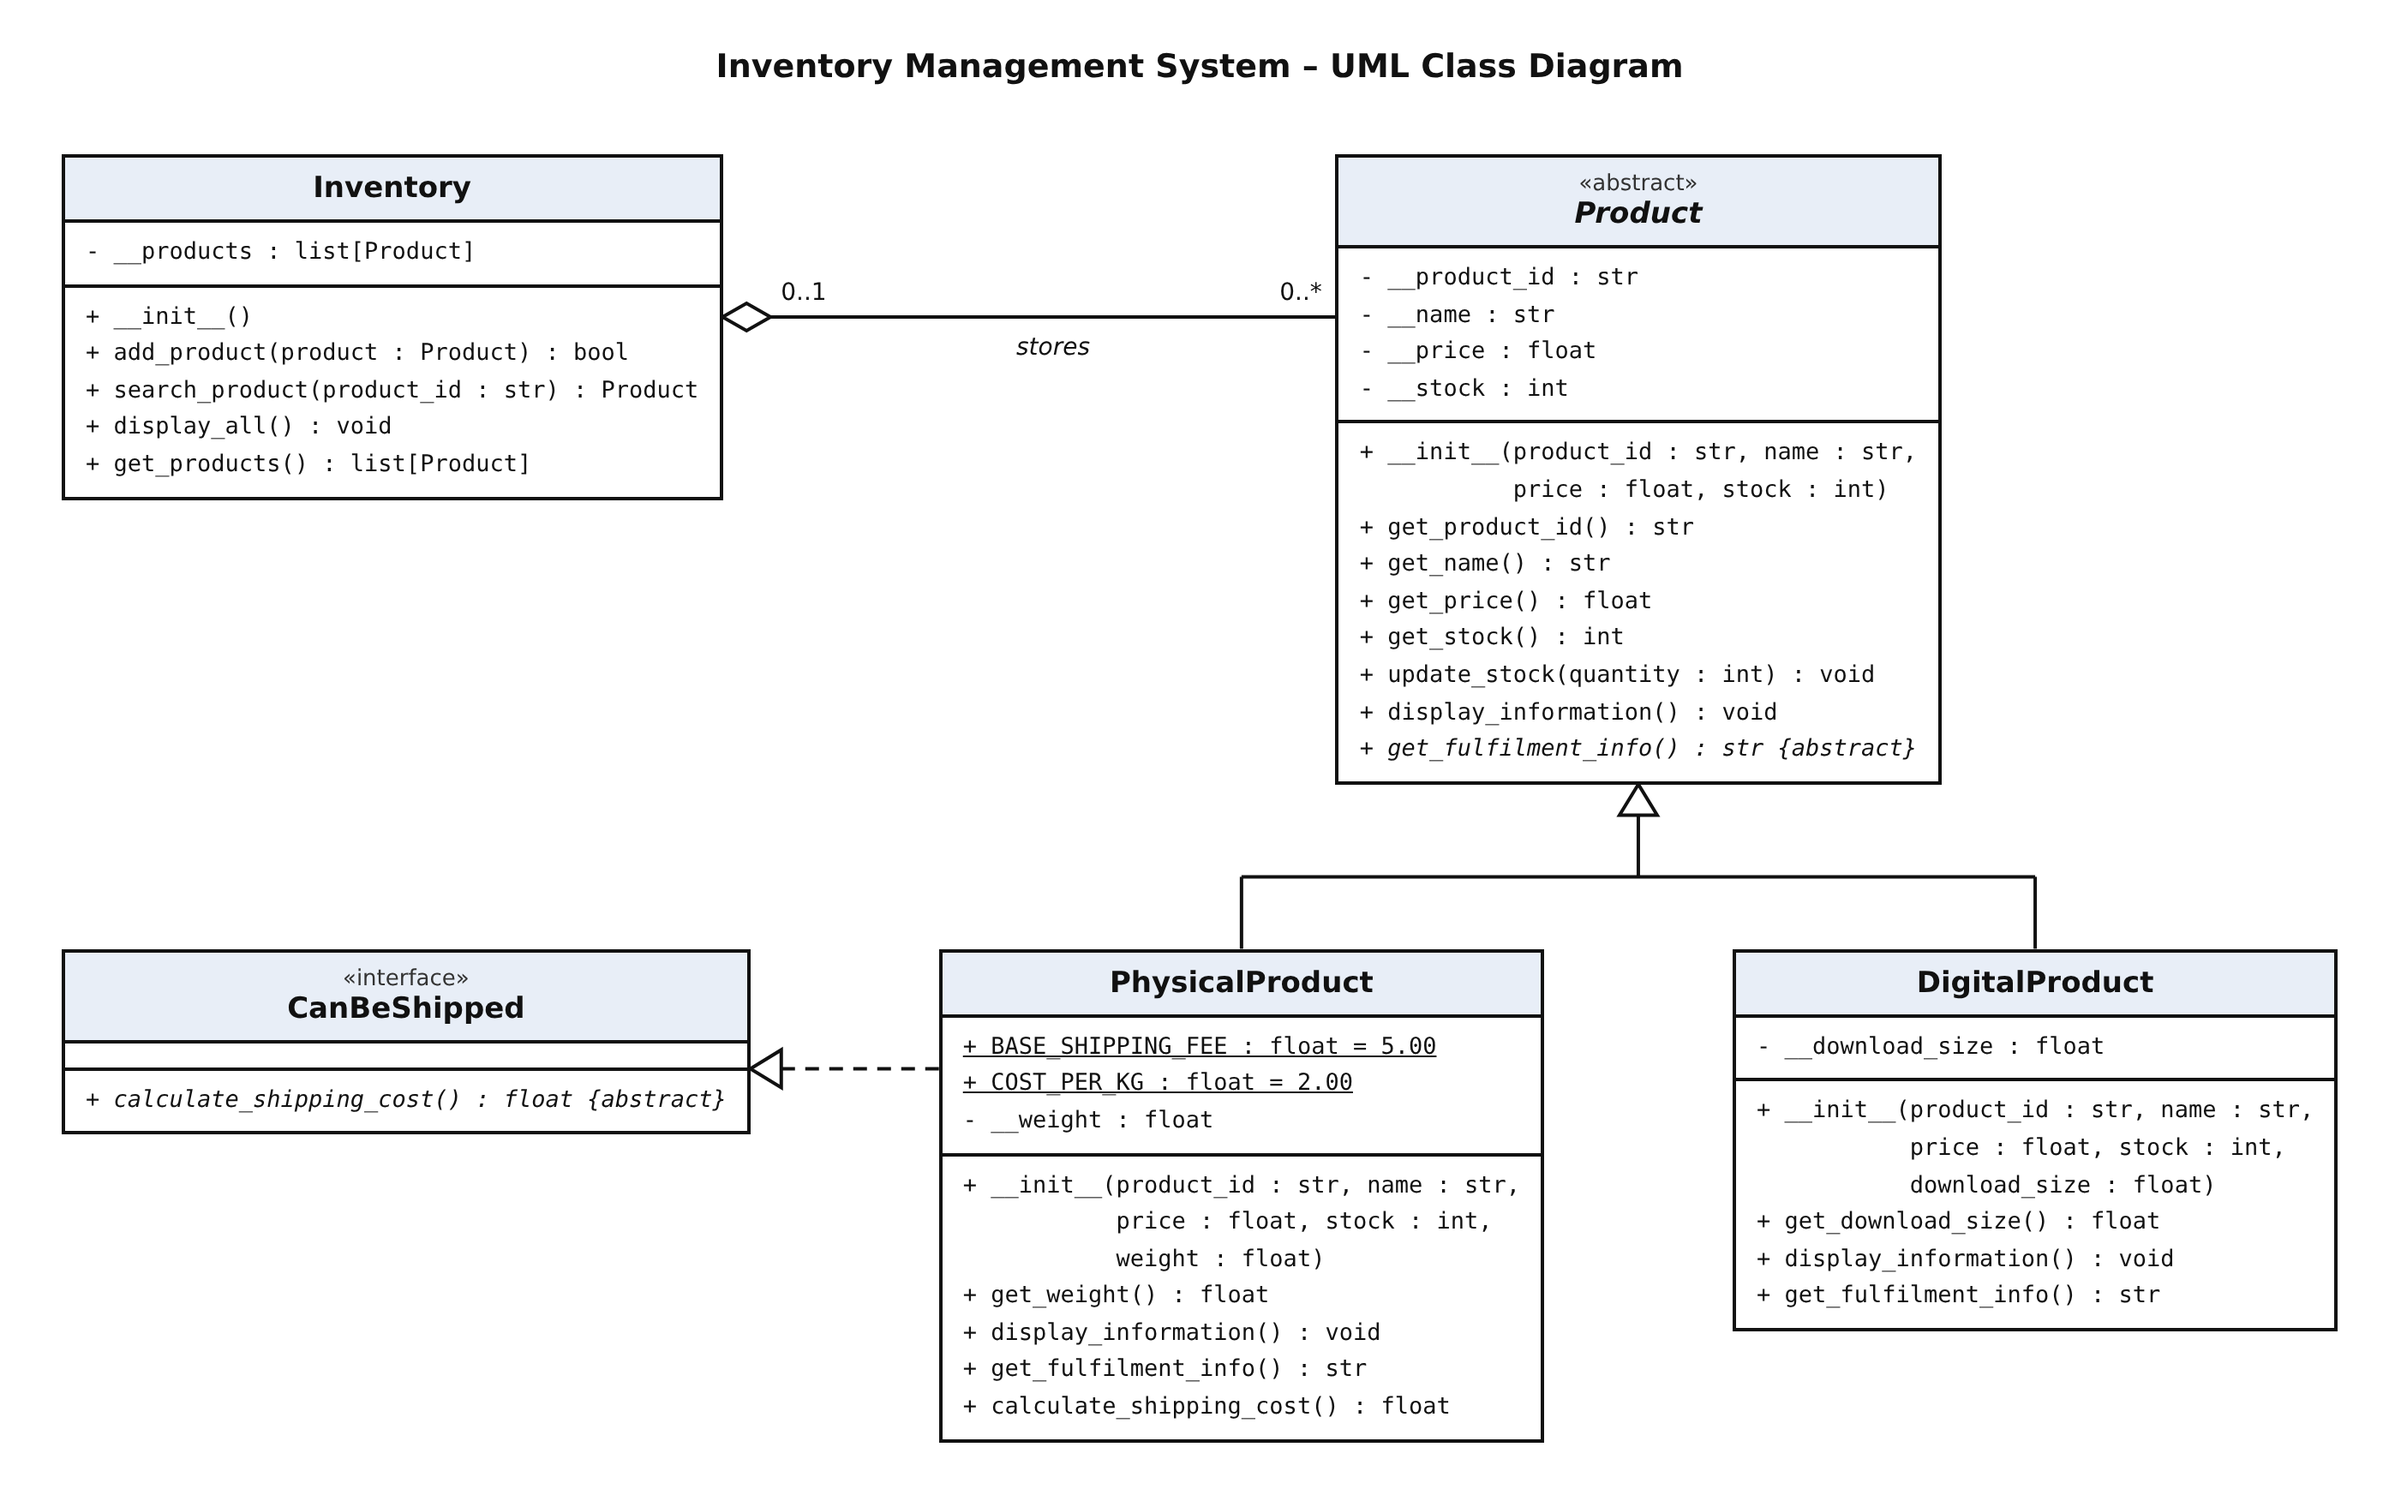
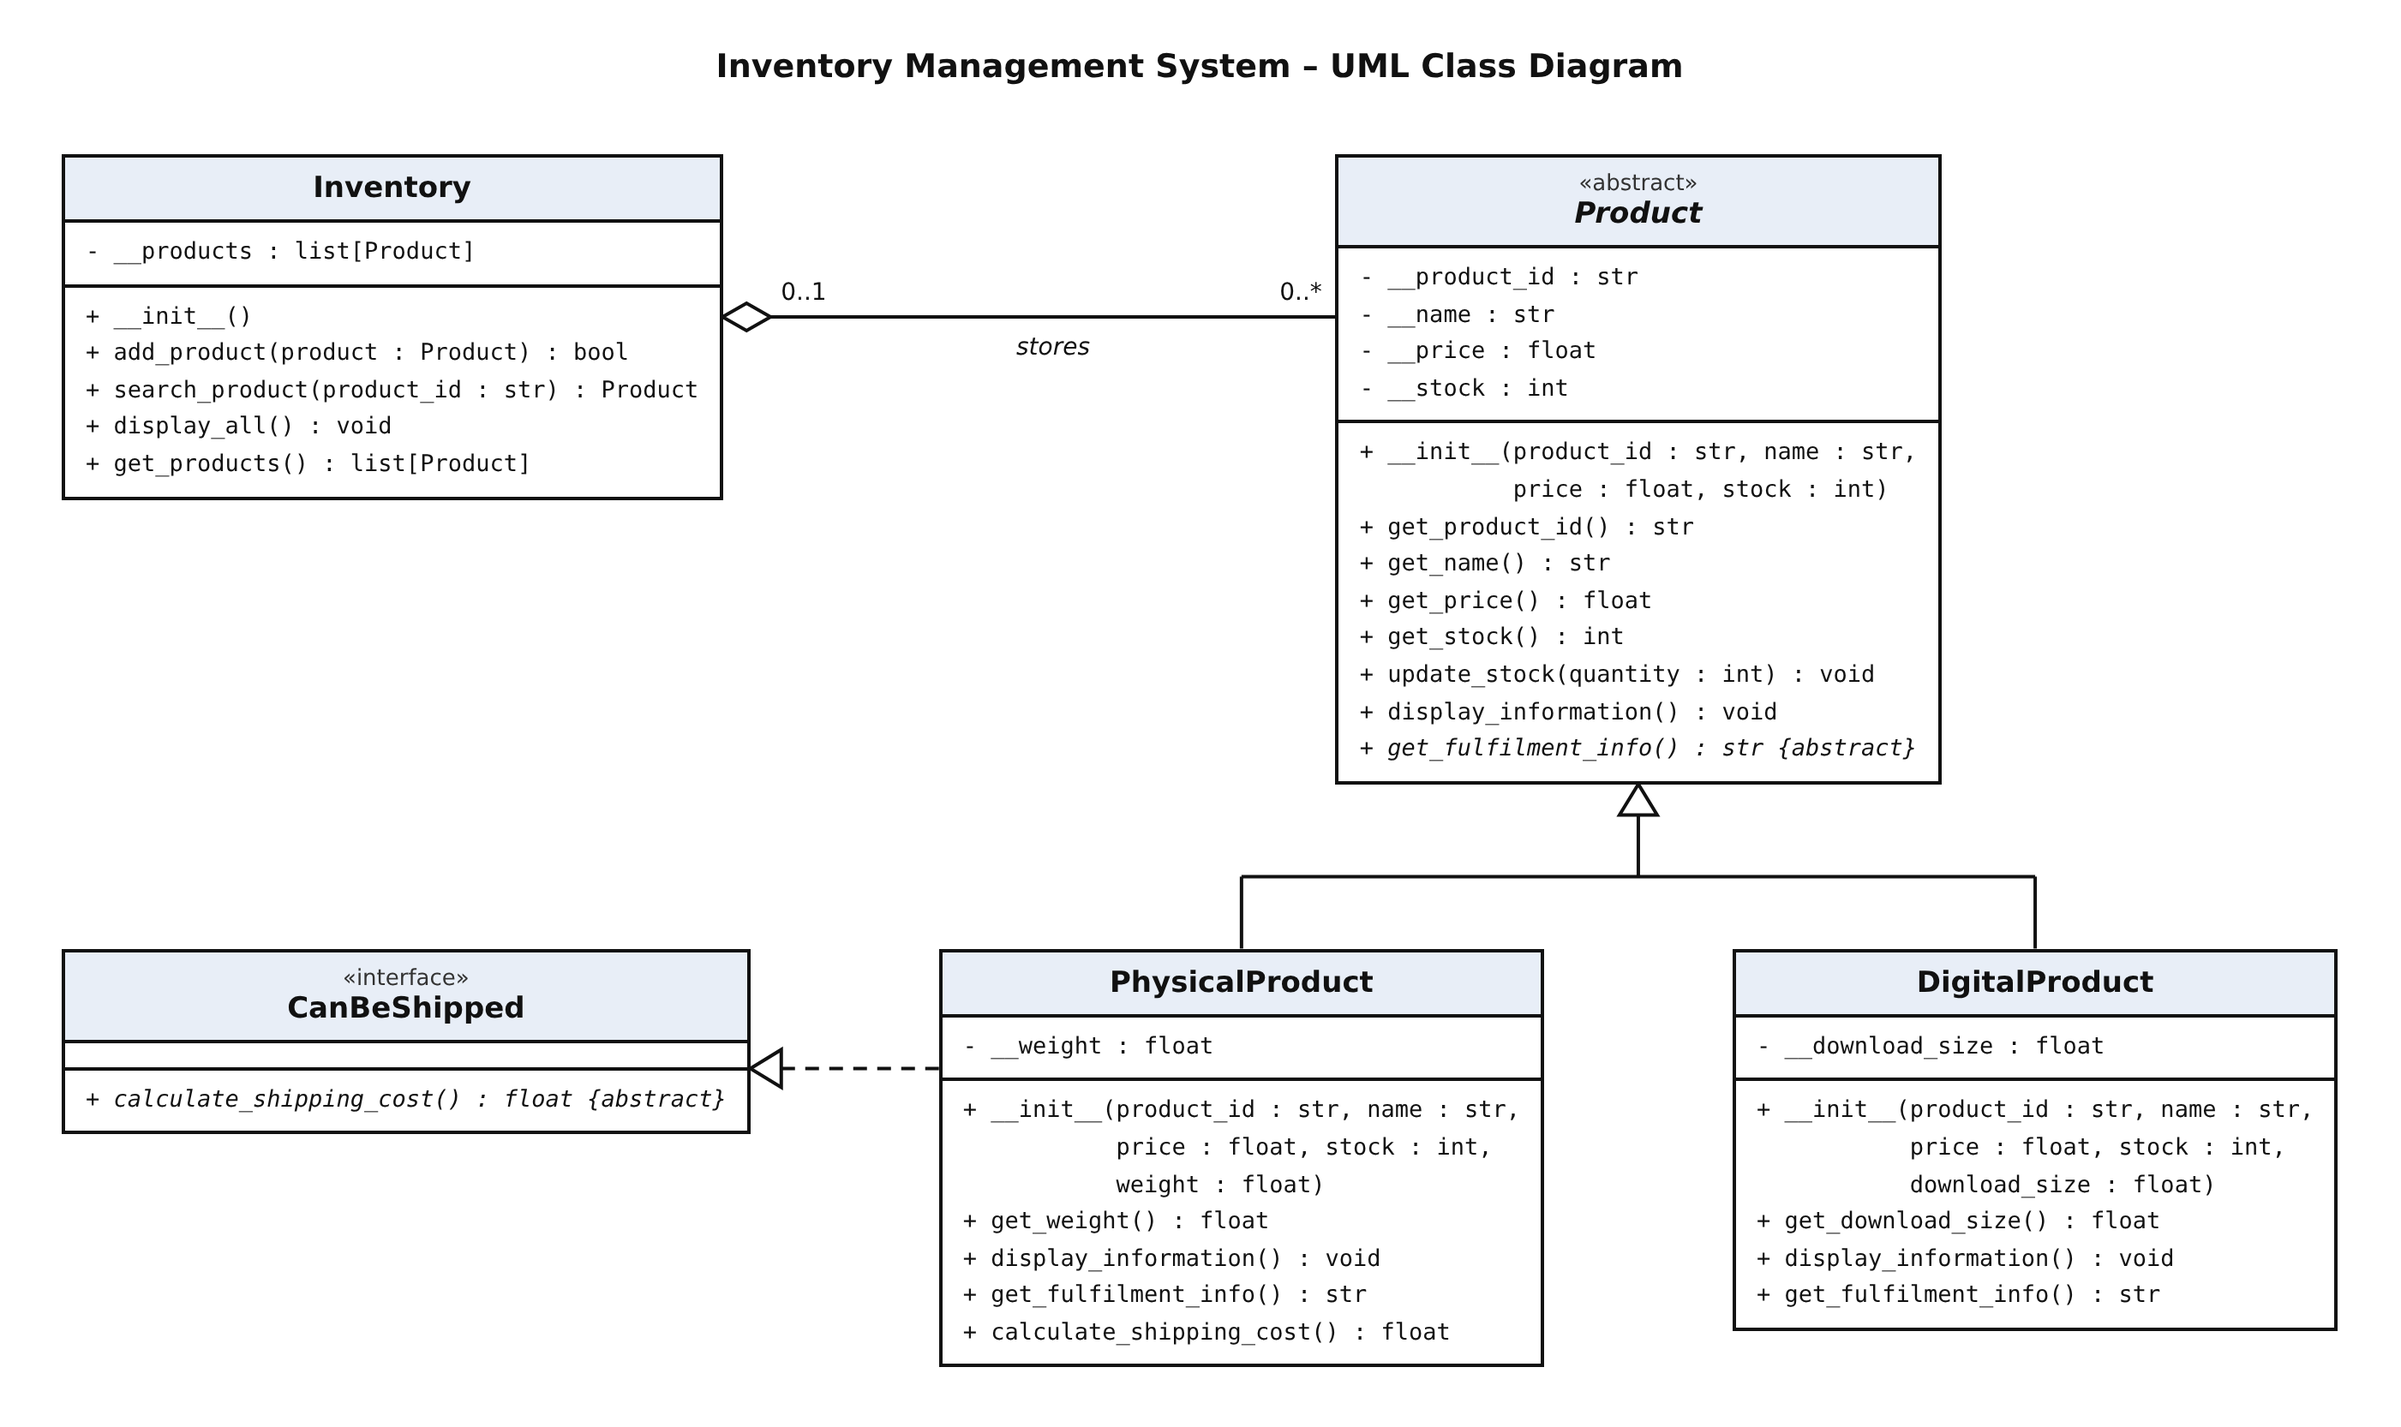
inheritance, abstract Product and CanBeShipped interface

diff --git a/inf1103-labs-new/inventory_manager.py b/inf1103-labs-new/inventory_manager.py
@@ -1,8 +1,6 @@
 # Github at https://github.com/DanielOng2603635/inf1103-labs
 # Main Program
 
-import math
-
 from physical_product import PhysicalProduct
 from digital_product import DigitalProduct
 from inventory import Inventory
@@ -22,18 +20,17 @@ def show_menu():
     print("----------------------------")
 
 
-def get_positive_number(prompt, field_name):
-    # Used for price, weight and download size
-    value = input(prompt).strip()
+def get_valid_price(prompt):
+    price = input(prompt).strip()
     try:
-        value = float(value)
+        price = float(price)
     except ValueError:
-        print("Please enter a valid number for " + field_name + ".")
+        print("Please enter a valid number for price.")
         return None
-    if not math.isfinite(value) or value <= 0:
-        print(field_name.capitalize() + " must be a positive number.")
+    if price <= 0:
+        print("Price must be a positive number.")
         return None
-    return value
+    return price
 
 
 def get_valid_stock(prompt):
@@ -51,13 +48,25 @@ def get_valid_stock(prompt):
     return stock
 
 
+def get_valid_number(prompt):
+    # For weight and download size
+    number = input(prompt).strip()
+    try:
+        number = float(number)
+    except ValueError:
+        print("Please enter a valid number.")
+        return None
+    if number <= 0:
+        print("Number must be more than 0.")
+        return None
+    return number
+
+
 def handle_add(inventory):
     print("Add New Product")
-    print("1. Physical Product")
-    print("2. Digital Product")
-    product_type = input("Choose product type: ").strip()
-    if product_type not in ("1", "2"):
-        print("Invalid product type. Please enter 1 or 2.")
+    product_type = input("Product Type (1 = Physical, 2 = Digital): ").strip()
+    if product_type != "1" and product_type != "2":
+        print("Invalid product type.")
         return
 
     product_id = input("Product ID: ").strip().upper()
@@ -73,7 +82,7 @@ def handle_add(inventory):
         print("Product name cannot be empty.")
         return
 
-    price = get_positive_number("Price: ", "price")
+    price = get_valid_price("Price: ")
     if price is None:
         return
 
@@ -81,19 +90,18 @@ def handle_add(inventory):
     if stock is None:
         return
 
-    # Ask for the extra detail that only this product type has
+    # Create the right type of product and hand it to the Inventory to store
     if product_type == "1":
-        weight = get_positive_number("Weight (kg): ", "weight")
+        weight = get_valid_number("Weight (kg): ")
         if weight is None:
             return
         product = PhysicalProduct(product_id, name, price, stock, weight)
     else:
-        download_size = get_positive_number("Download Size (MB): ", "download size")
+        download_size = get_valid_number("Download Size (MB): ")
         if download_size is None:
             return
         product = DigitalProduct(product_id, name, price, stock, download_size)
 
-    # Hand the new product to the Inventory to store
     inventory.add_product(product)
     print("Product added successfully!")
 
@@ -130,8 +138,7 @@ def handle_search(inventory):
     print("Product Found")
     print("------------------------------------------------")
     product.display_information()
-    # Each subclass gives its own answer (method overriding)
-    print("    Fulfilment: " + product.get_fulfilment_info())
+    print(product.get_fulfilment_info())
     print("------------------------------------------------")
 
 

diff --git a/inf1103-labs-new/file_handler.py b/inf1103-labs-new/file_handler.py
@@ -1,46 +1,12 @@
 # Github at https://github.com/DanielOng2603635/inf1103-labs
 #
 # File Handling: loads and saves inventory data.
-# Each saved product has a "type" ("physical" or "digital") so the right
-# subclass can be created again when the file is loaded.
 
 import json
 import os
 
 from physical_product import PhysicalProduct
 from digital_product import DigitalProduct
-
-
-def create_product(item):
-    # Use the saved type to rebuild the right subclass
-    if item["type"] == "physical":
-        return PhysicalProduct(item["id"], item["name"], item["price"],
-                               item["stock"], item["weight"])
-    if item["type"] == "digital":
-        return DigitalProduct(item["id"], item["name"], item["price"],
-                              item["stock"], item["download_size"])
-    raise ValueError("Unknown product type: " + str(item["type"]))
-
-
-def product_to_dict(product):
-    # Turn a product object into a dictionary JSON can store
-    data = {
-        "type": "",
-        "id": product.get_product_id(),
-        "name": product.get_name(),
-        "price": product.get_price(),
-        "stock": product.get_stock()
-    }
-    # Add the type identifier and the attribute only that subclass has
-    if isinstance(product, PhysicalProduct):
-        data["type"] = "physical"
-        data["weight"] = product.get_weight()
-    elif isinstance(product, DigitalProduct):
-        data["type"] = "digital"
-        data["download_size"] = product.get_download_size()
-    else:
-        raise ValueError("Don't know how to save this product type.")
-    return data
 
 
 def load_inventory(inventory, filename):
@@ -63,8 +29,15 @@ def load_inventory(inventory, filename):
 
     for item in data:
         # Turn each saved dictionary back into a product object
+        # the type decides which class to use
         try:
-            product = create_product(item)
+            if item["type"] == "physical":
+                product = PhysicalProduct(item["id"], item["name"], item["price"], item["stock"], item["weight"])
+            elif item["type"] == "digital":
+                product = DigitalProduct(item["id"], item["name"], item["price"], item["stock"], item["download_size"])
+            else:
+                print("Skipping a product with an unknown type.")
+                continue
         except (KeyError, TypeError, ValueError):
             print("Skipping an invalid product entry in " + filename + ".")
             continue
@@ -79,7 +52,21 @@ def save_inventory(inventory, filename):
     # Write every product in the inventory to a JSON file
     data = []
     for product in inventory.get_products():
-        data.append(product_to_dict(product))
+        # Turn each product object into a dictionary JSON can store
+        item = {
+            "id": product.get_product_id(),
+            "name": product.get_name(),
+            "price": product.get_price(),
+            "stock": product.get_stock()
+        }
+        # Save the type and the extra info for that type
+        if isinstance(product, PhysicalProduct):
+            item["type"] = "physical"
+            item["weight"] = product.get_weight()
+        else:
+            item["type"] = "digital"
+            item["download_size"] = product.get_download_size()
+        data.append(item)
 
     with open(filename, "w") as file:
         json.dump(data, file, indent=4)

diff --git a/inf1103-labs-new/product.py b/inf1103-labs-new/product.py
@@ -4,8 +4,7 @@ from abc import ABC, abstractmethod
 
 
 class Product(ABC):
-    # Abstract base class for every product in the store.
-    # Cannot be created directly: use PhysicalProduct or DigitalProduct.
+    # Base class for all products, can't be created on its own
 
     def __init__(self, product_id, name, price, stock):
         self.__product_id = str(product_id)
@@ -16,12 +15,11 @@ class Product(ABC):
             raise ValueError("Price must be a positive number.")
         self.__price = price
 
-        # Stock goes through update_stock() so the same rules apply
-        # when a product is created as when its stock is changed later.
+        # use update_stock() so the stock gets checked too
         self.__stock = 0
         self.update_stock(stock)
 
-    # ---------- Getters (read-only access to the private attributes) ----------
+    # Getters
 
     def get_product_id(self):
         return self.__product_id
@@ -35,8 +33,6 @@ class Product(ABC):
     def get_stock(self):
         return self.__stock
 
-    # ---------- Behaviour ----------
-
     def update_stock(self, quantity):
         # Set the stock to a new quantity
 
@@ -47,7 +43,6 @@ class Product(ABC):
         self.__stock = quantity
 
     def display_information(self):
-        # Common information. Subclasses call this with super() and add their own details.
         print("ID: " + self.__product_id
               + " | Name: " + self.__name
               + " | Price: $" + format(self.__price, ".2f")
@@ -55,5 +50,4 @@ class Product(ABC):
 
     @abstractmethod
     def get_fulfilment_info(self):
-        # Every product type must say how it gets to the customer
         pass

diff --git a/inf1103-labs-new/physical_product.py b/inf1103-labs-new/physical_product.py
@@ -5,33 +5,21 @@ from can_be_shipped import CanBeShipped
 
 
 class PhysicalProduct(Product, CanBeShipped):
-    # A product that is stored and shipped.
-    # Inherits from one class (Product) and implements one interface (CanBeShipped).
-
-    # Shipping rule: flat fee per item plus a charge per kg
-    BASE_SHIPPING_FEE = 5.00
-    COST_PER_KG = 2.00
 
     def __init__(self, product_id, name, price, stock, weight):
-        # Reuse the Product constructor for the common attributes
         super().__init__(product_id, name, price, stock)
-
-        weight = float(weight)
-        if weight <= 0:
-            raise ValueError("Weight must be a positive number.")
-        self.__weight = weight  # in kg
+        self.__weight = float(weight)
 
     def get_weight(self):
         return self.__weight
 
     def display_information(self):
-        # Parent prints the common information, child adds the weight
         super().display_information()
-        print("    Type: Physical | Weight: " + format(self.__weight, ".2f") + " kg")
+        print("    Weight: " + str(self.__weight) + " kg")
 
     def get_fulfilment_info(self):
-        return ("Requires physical shipping. Shipping cost: $"
-                + format(self.calculate_shipping_cost(), ".2f"))
+        return "This product requires physical shipping."
 
     def calculate_shipping_cost(self):
-        return round(self.BASE_SHIPPING_FEE + self.COST_PER_KG * self.__weight, 2)
+        # $5 + $2 per kg
+        return 5 + self.__weight * 2

diff --git a/inf1103-labs-new/digital_product.py b/inf1103-labs-new/digital_product.py
@@ -4,25 +4,17 @@ from product import Product
 
 
 class DigitalProduct(Product):
-    # A product delivered by download. Does not implement CanBeShipped.
 
     def __init__(self, product_id, name, price, stock, download_size):
-        # Reuse the Product constructor for the common attributes
         super().__init__(product_id, name, price, stock)
-
-        download_size = float(download_size)
-        if download_size <= 0:
-            raise ValueError("Download size must be a positive number.")
-        self.__download_size = download_size  # in MB
+        self.__download_size = float(download_size)
 
     def get_download_size(self):
         return self.__download_size
 
     def display_information(self):
-        # Parent prints the common information, child adds the download size
         super().display_information()
-        print("    Type: Digital | Download Size: " + format(self.__download_size, ".1f") + " MB")
+        print("    Download Size: " + str(self.__download_size) + " MB")
 
     def get_fulfilment_info(self):
-        return ("Delivered digitally by download ("
-                + format(self.__download_size, ".1f") + " MB).")
+        return "This product is delivered digitally through a download link."

diff --git a/inf1103-labs-new/can_be_shipped.py b/inf1103-labs-new/can_be_shipped.py
@@ -4,10 +4,8 @@ from abc import ABC, abstractmethod
 
 
 class CanBeShipped(ABC):
-    # Interface: any class that can be shipped must implement these methods.
-    # No attributes or shipping details here, it is only the contract.
+    # Interface for anything that can be shipped
 
     @abstractmethod
     def calculate_shipping_cost(self):
-        # Return the cost of shipping this item
         pass
